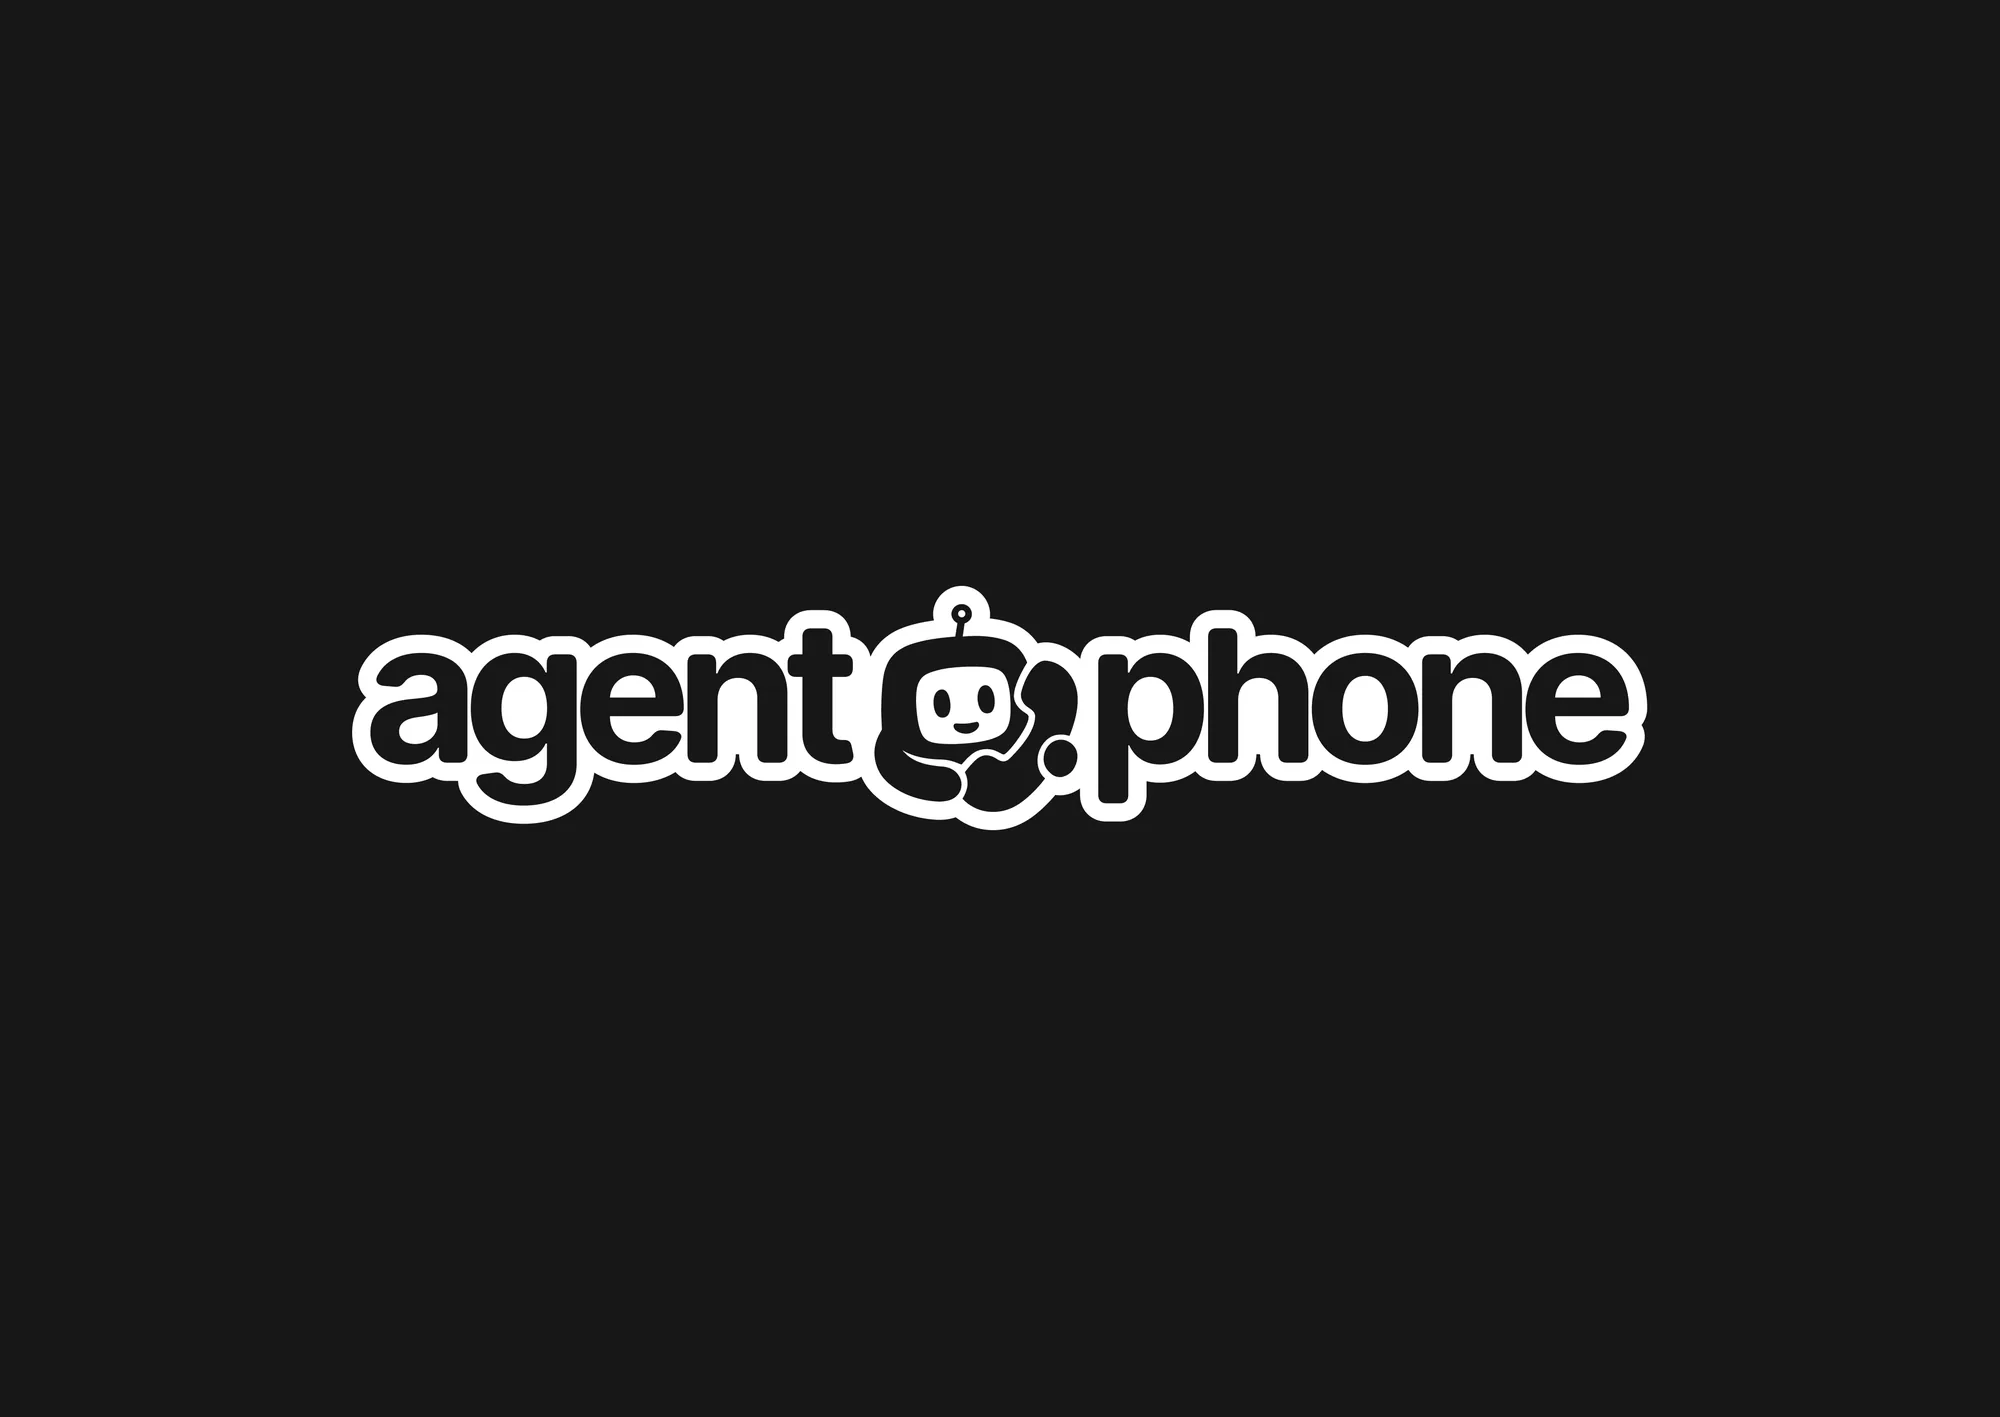
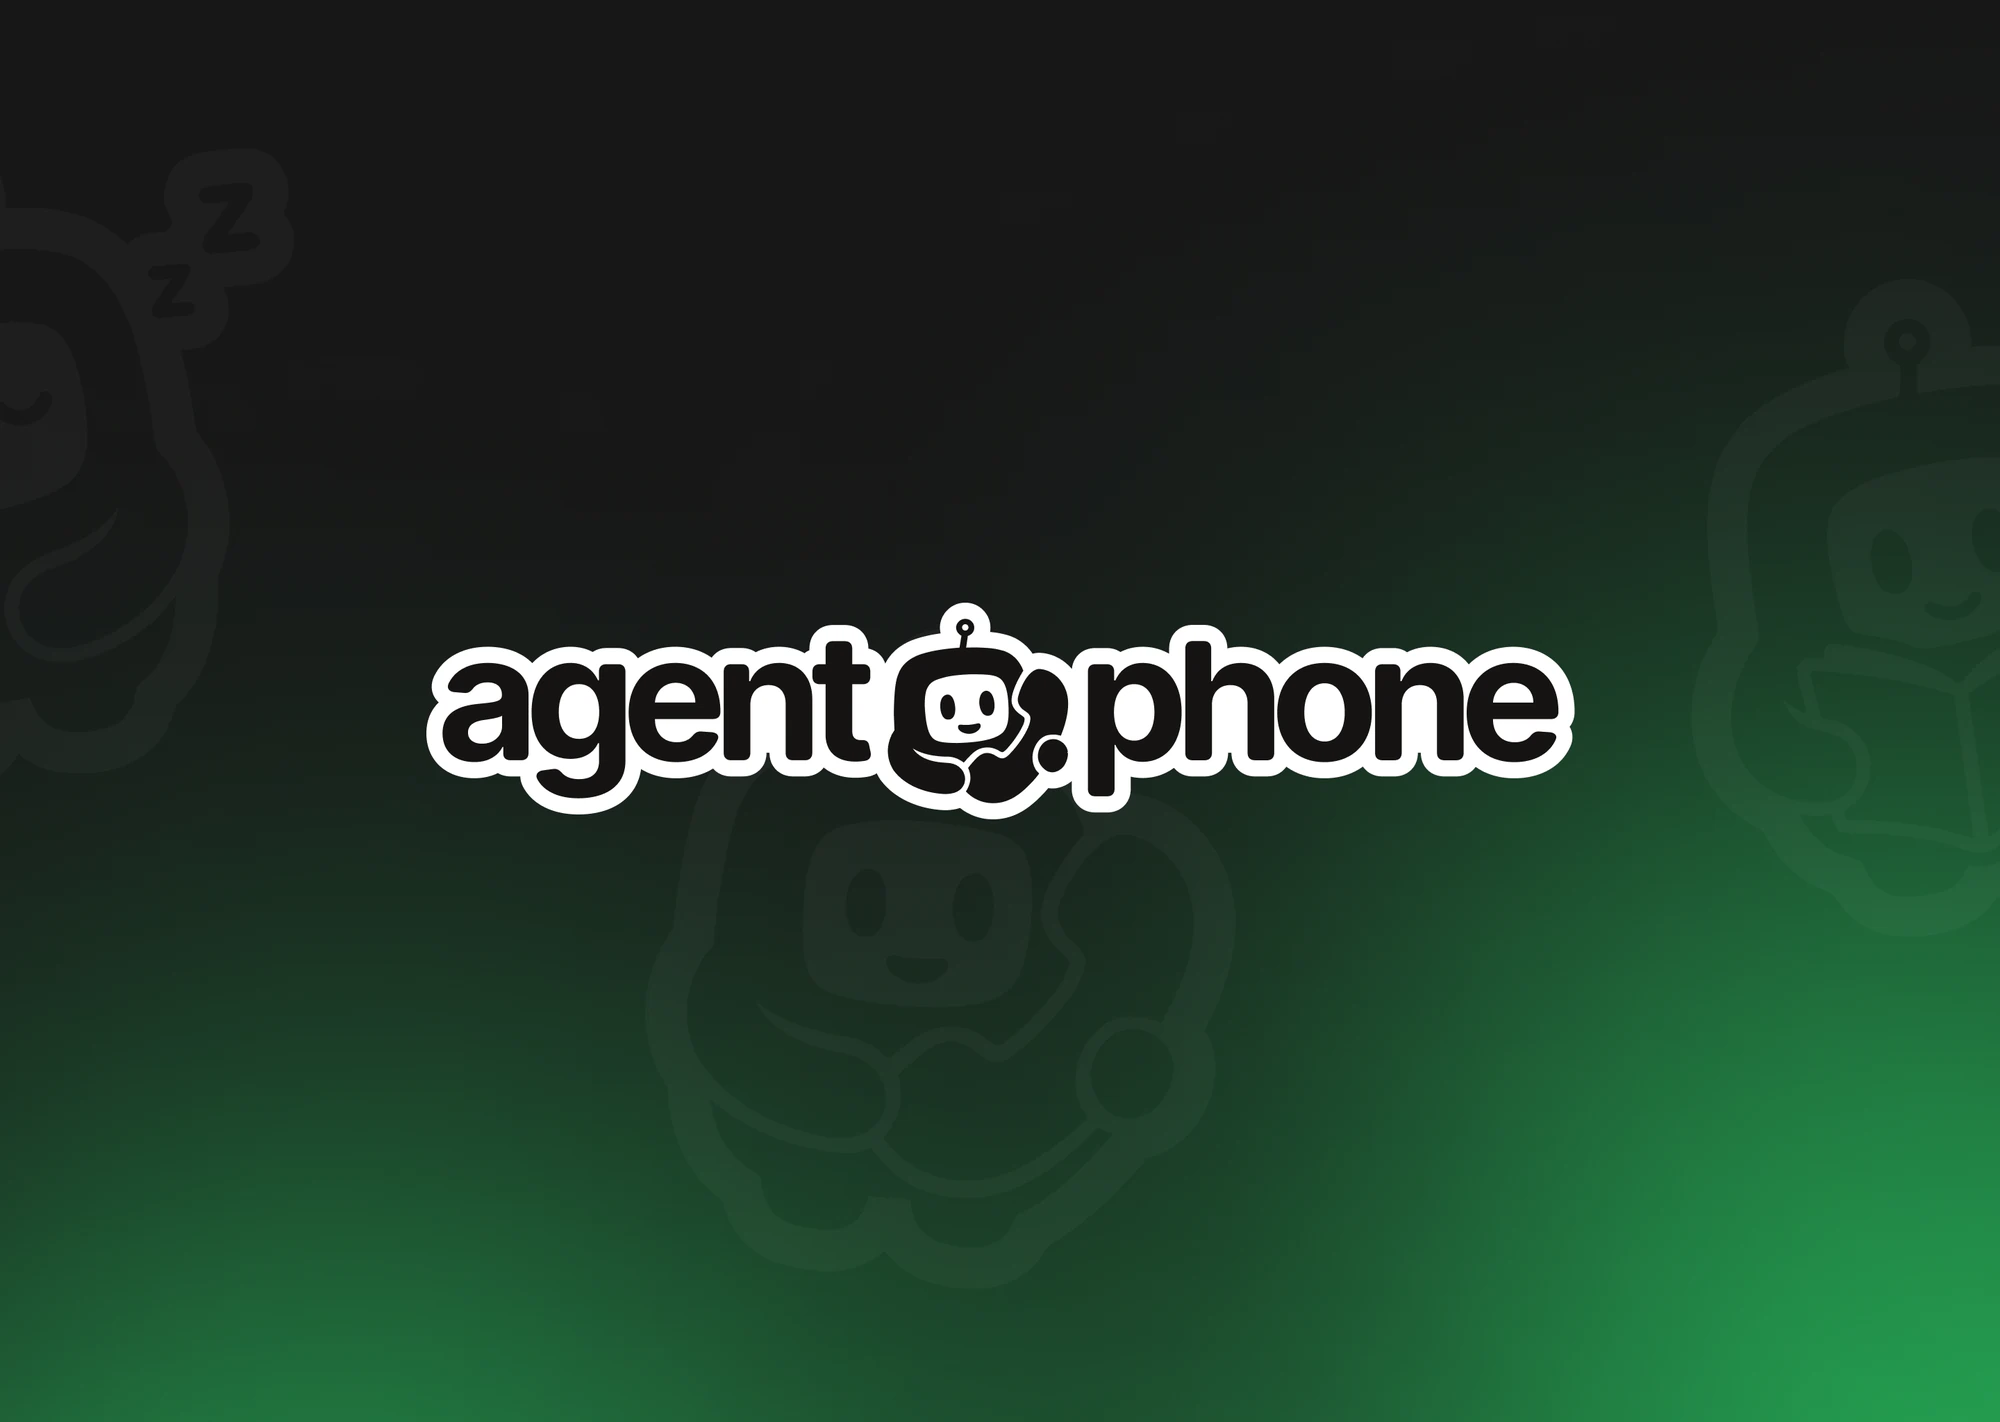
feat(works): new covers for Spacefast, Orchid, Conviction, AgentPhone and AgentMail
Each one is made for the strip: the project's logo on its own artwork,
already in the frame's shape, so the strip trims next to nothing from
it. They're WebP copies of the PNG exports in covers/, which git now
leaves out, saved as cover.webp beside each project's pictures.
AgentPhone's replaces the copy of its picture 1.

AgentPhone's dark green gradient and Conviction's navy broke into faint
blocks at the usual quality, so those two are encoded at q90 with noise
shaping off. The five come to about 250 KB.

Axiom and Anything keep their covers.

diff --git a/src/data/works.ts b/src/data/works.ts
@@ -10,8 +10,9 @@
 
   Pictures live in public/works/<key>/ and are served from the site itself, so Vercel's CDN carries them. Each is a WebP copy
   of a PNG export in works/<key>/ (which git leaves out), at most 2000px wide: twice the size it shows at. Its width and
-  height let the page hold its space before it loads. A cover is one of the project's pictures, which the strip crops to its
-  960 × 680 frame around the middle, or a cover.webp copy of one with more background where that crop would cut it.
+  height let the page hold its space before it loads. A cover is one of the project's pictures or a cover.webp beside them,
+  which the strip crops to its 960 × 680 frame around the middle. A cover.webp is made for the strip, from a PNG export in
+  covers/ (which git leaves out too), or is a copy of one of the pictures with more background where that crop would cut it.
 */
 
 /** A picture in public/works/, with its size in pixels. */
@@ -40,8 +41,8 @@ export const works = {
     intro: null,
     live: null, // TODO: add the live address
     cover: {
-      src: "/works/spacefast/1.webp",
-      alt: "Spacefast website for Automattic: Show it to your people, not the whole internet.",
+      src: "/works/spacefast/cover.webp",
+      alt: "Spacefast logo, by Automattic, on crumpled grid paper among hand-drawn stickers.",
     },
     shots: [
       { src: "/works/spacefast/1.webp", width: 2000, height: 1422 },
@@ -91,8 +92,8 @@ export const works = {
     intro: null,
     live: null, // TODO: add the live address
     cover: {
-      src: "/works/orchid/1.webp",
-      alt: "Orchid website: Meet Orchid, your personal exec.",
+      src: "/works/orchid/cover.webp",
+      alt: "Orchid logo in white, over a blurred valley at dusk with wildflowers and a river.",
     },
     shots: [
       { src: "/works/orchid/1.webp", width: 2000, height: 1422 },
@@ -137,8 +138,8 @@ export const works = {
     intro: null,
     live: null,
     cover: {
-      src: "/works/conviction/8.webp",
-      alt: "Conviction app, dark: a chat that builds an AMD 3 Day Hold strategy, beside its backtest.",
+      src: "/works/conviction/cover.webp",
+      alt: "Conviction logo on navy, over faint lines of trades filled overnight.",
     },
     shots: [
       { src: "/works/conviction/1.webp", width: 2000, height: 886 },
@@ -158,9 +159,8 @@ export const works = {
     intro: null,
     live: null,
     cover: {
-      // Picture 1 with more of its black above and below, so the wordmark keeps its margins in the frame.
       src: "/works/agentphone/cover.webp",
-      alt: "AgentPhone logo.",
+      alt: "AgentPhone logo, its robot holding a phone, on black glowing green.",
     },
     shots: [
       { src: "/works/agentphone/1.webp", width: 2000, height: 1038 },
@@ -183,8 +183,8 @@ export const works = {
     intro: null,
     live: { label: "agentmail.to", url: "https://agentmail.to" },
     cover: {
-      src: "/works/agentmail/1.webp",
-      alt: "AgentMail logo, white on black beside black on white.",
+      src: "/works/agentmail/cover.webp",
+      alt: "AgentMail logo in white, over a city skyline drawn in ASCII characters.",
     },
     shots: [
       { src: "/works/agentmail/1.webp", width: 2000, height: 1389 },

diff --git a/README.md b/README.md
@@ -17,7 +17,7 @@ Node 22.12 or newer.
 - `src/pages/`: the main page, the YC page, a page per project (`work/[slug].astro`), the privacy policy and terms (Markdown) and `llms.txt`.
 - `src/data/`: works, testimonials, pricing plans and links. Editing these updates every page that shows them.
 - `src/styles/global.css`: all styles. `src/scripts/main.js`: the works carousel and the sidebar.
-- `public/works/`, `public/testimonials/`: pictures, served from the site itself. The works' pictures are WebP copies of the PNG exports in `works/`, which git leaves out.
+- `public/works/`, `public/testimonials/`: pictures, served from the site itself. The works' pictures are WebP copies of the PNG exports in `works/` and `covers/`, which git leaves out.
 
 Fonts come from Google Fonts at build time and are served from the site too (see `fonts` in `astro.config.mjs`).
 
